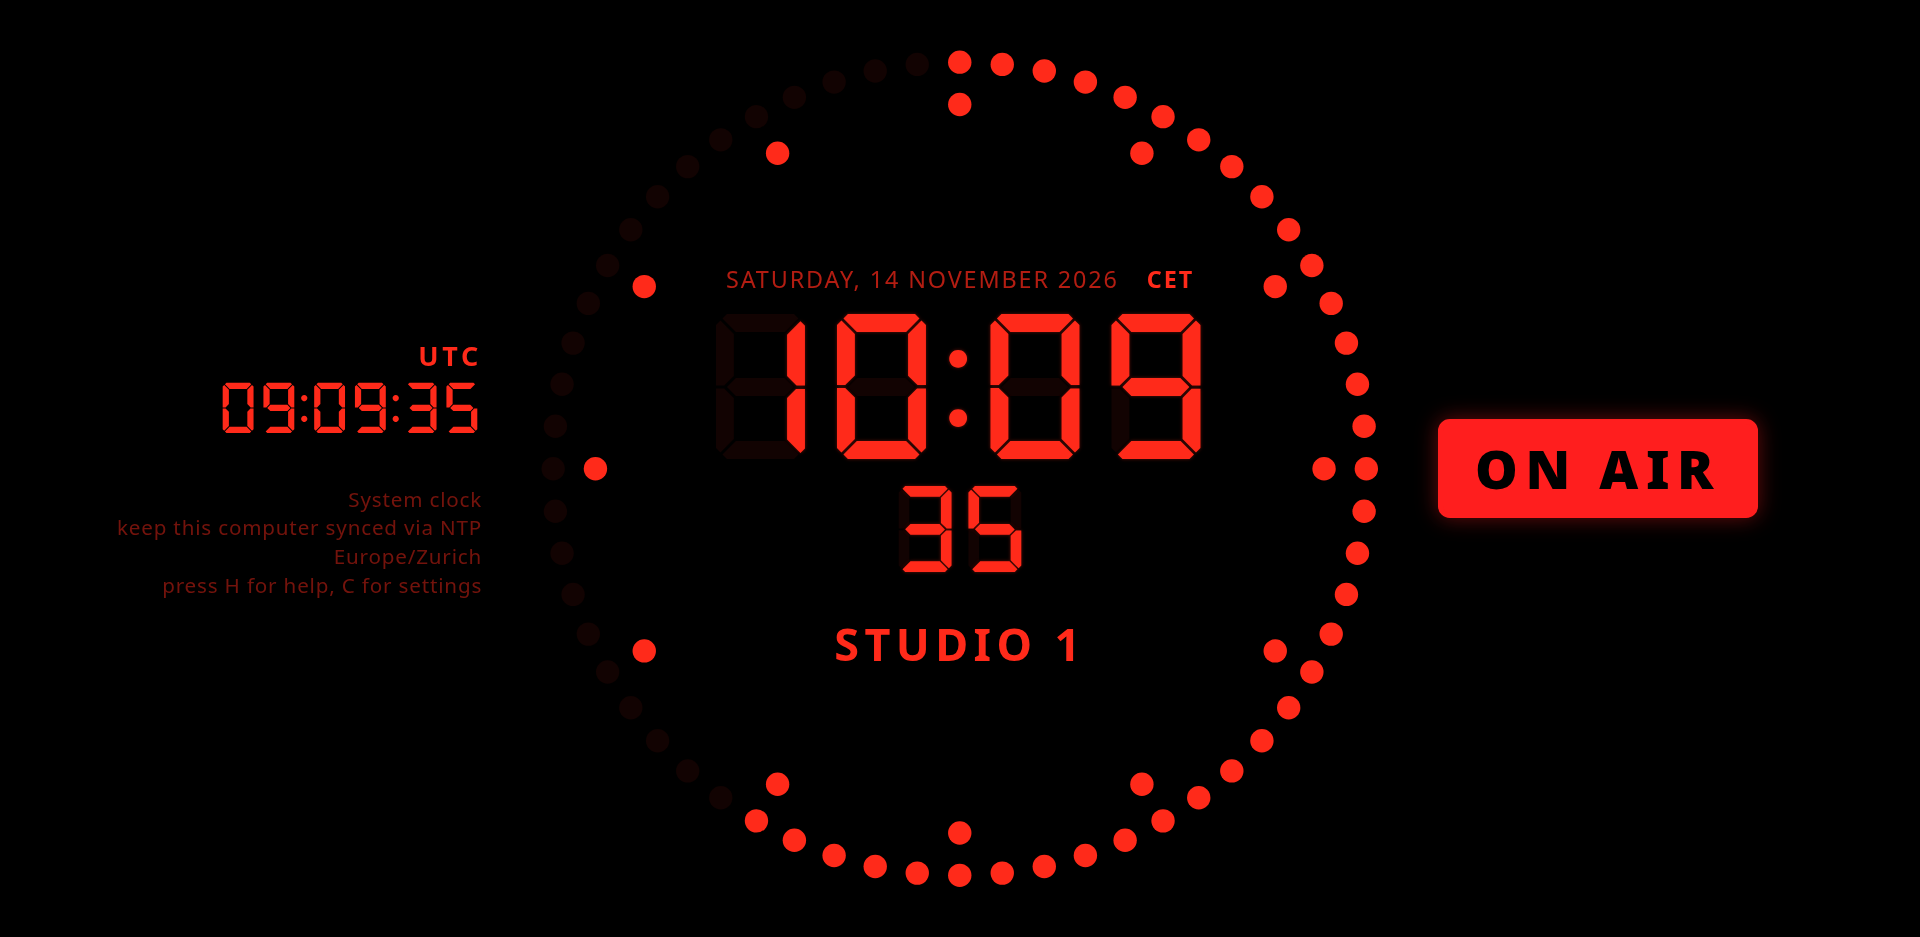
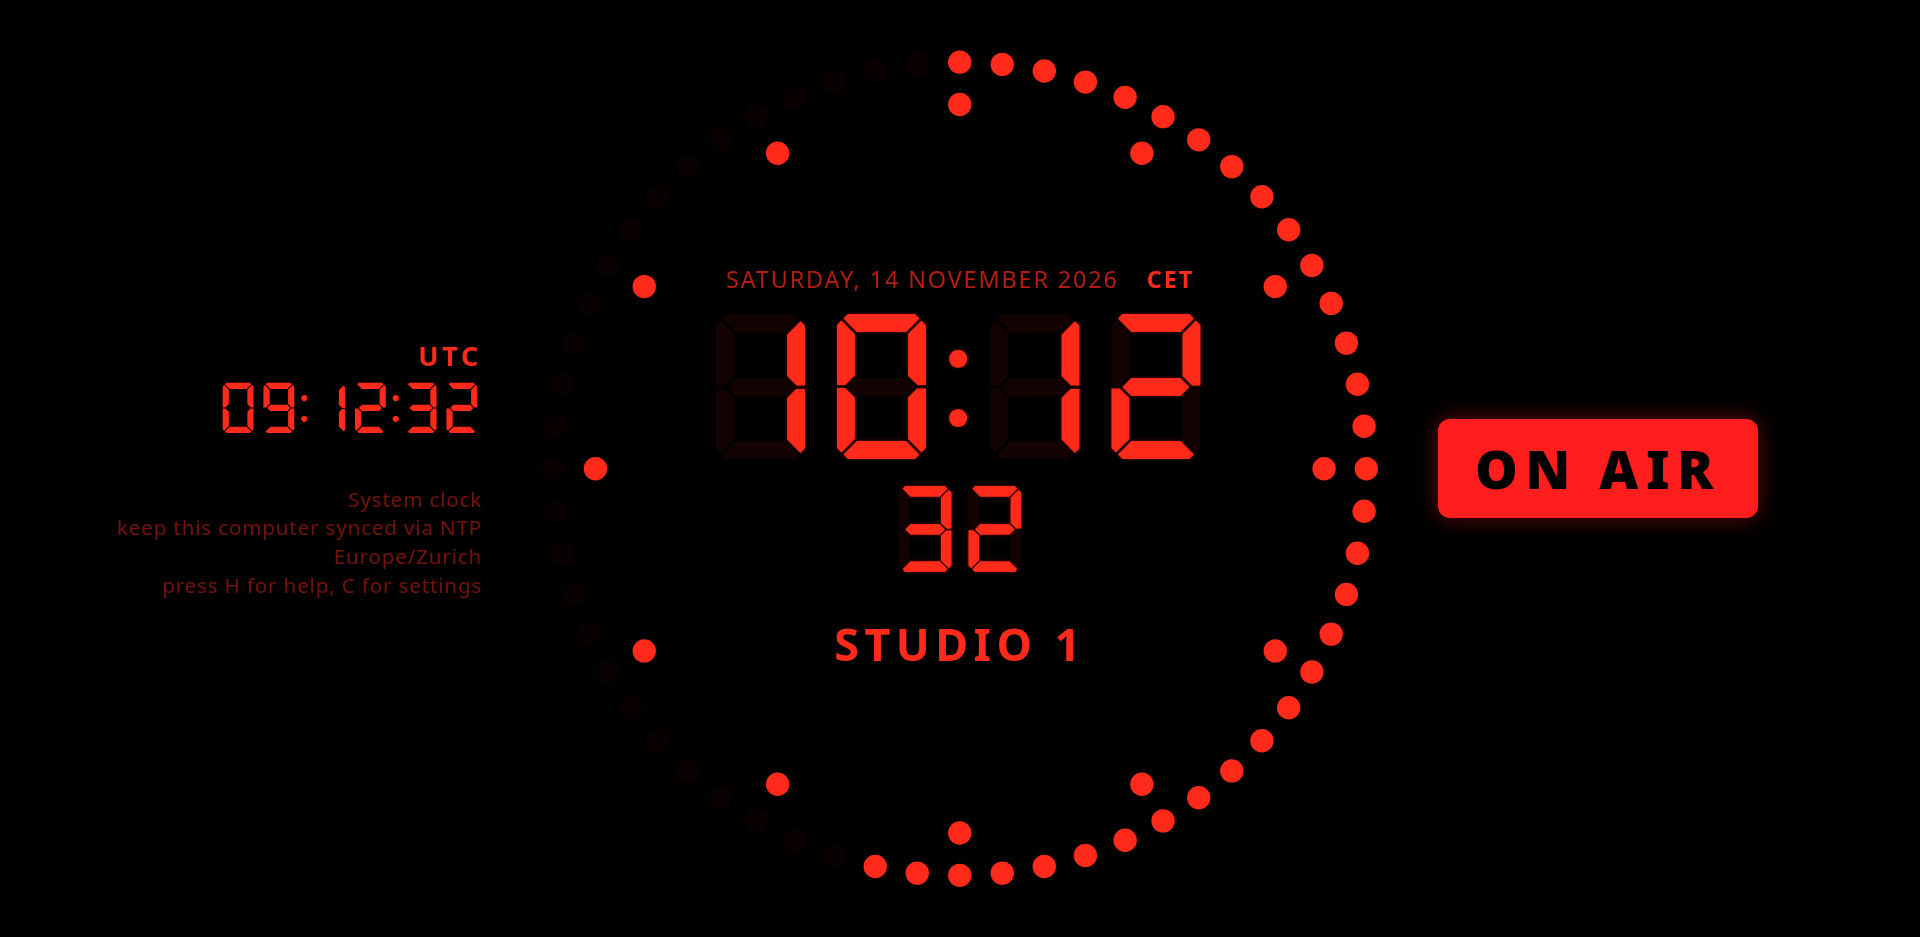
onair parameter lights the ON AIR sign instead of showing its outline

diff --git a/master-clock.html b/master-clock.html
@@ -211,7 +211,7 @@
       <tr><td><code>interval=60</code>, <code>samples=4</code></td><td>Seconds between syncs, samples per burst</td></tr>
       <tr><td><code>warn=500</code></td><td>Warn when this computer's clock is off by more than this many ms</td></tr>
       <tr><td><code>countdown=300</code></td><td>Preload the timer as a countdown (seconds)</td></tr>
-      <tr><td><code>onair</code></td><td>Always show the ON AIR sign</td></tr>
+      <tr><td><code>onair</code></td><td>Start with the ON AIR sign lit</td></tr>
       <tr><td><code>events=...</code>, <code>ws=...</code></td><td>Remote control by Server-Sent Events or WebSocket</td></tr>
       <tr><td><code>dim</code>, <code>night=22-6</code></td><td>Start dimmed; dim automatically between those hours</td></tr>
       <tr><td><code>cycle=60</code>, <code>shift=0</code></td><td>Change the LED colour every 60 minutes to even out OLED wear; turn off the pixel shift</td></tr>
@@ -802,7 +802,7 @@ const remote = {
     };
   },
 };
-tally.set(false);
+tally.set(cfg.onair);
 if (cfg.events) { try { remote.sse(new URL(cfg.events, cfg.sync?.url ?? location.href)); } catch {} }
 if (cfg.ws) remote.ws(cfg.ws);
 
@@ -950,7 +950,7 @@ const FIELDS = [
   { k: "lang", label: "Date language", type: "text", ph: navigator.language },
   { k: "date", label: "Show the date", type: "flag", on: true },
   { k: "zone", label: "Show the zone abbreviation", type: "flag", on: true },
-  { k: "onair", label: "Always show the ON AIR sign", type: "flag" },
+  { k: "onair", label: "Start with the ON AIR sign lit", type: "flag" },
   { k: "countdown", label: "Preload a countdown (seconds)", type: "number" },
   { k: "pips", label: "Hourly time pips", type: "flag" },
   { h: "Clocks" },

diff --git a/README.md b/README.md
@@ -157,7 +157,7 @@ full list.
 ### Examples
 
 ```
-# Studio wall: label, UTC beside the dial, ON AIR sign always visible
+# Studio wall: label, UTC beside the dial, ON AIR sign lit
 master-clock.html?text=STUDIO%201&onair
 
 # Studio with a 5 minute countdown preloaded and the time pips on the hour
@@ -220,7 +220,7 @@ master-clock.html?dim
 | `interval=60`, `samples=4` | Seconds between syncs, samples per burst |
 | `warn=500` | Warn when this computer's clock is off by more than this many ms |
 | `countdown=300` | Preload the timer as a countdown (seconds) |
-| `onair` | Always show the ON AIR sign |
+| `onair` | Start with the ON AIR sign lit |
 | `events=...`, `ws=...` | Remote control endpoint |
 | `dim`, `night=22-6` | Start dimmed, or dim automatically between those hours |
 | `cycle=60`, `shift=0` | Change the LED colour every 60 minutes, turn off the pixel shift |
